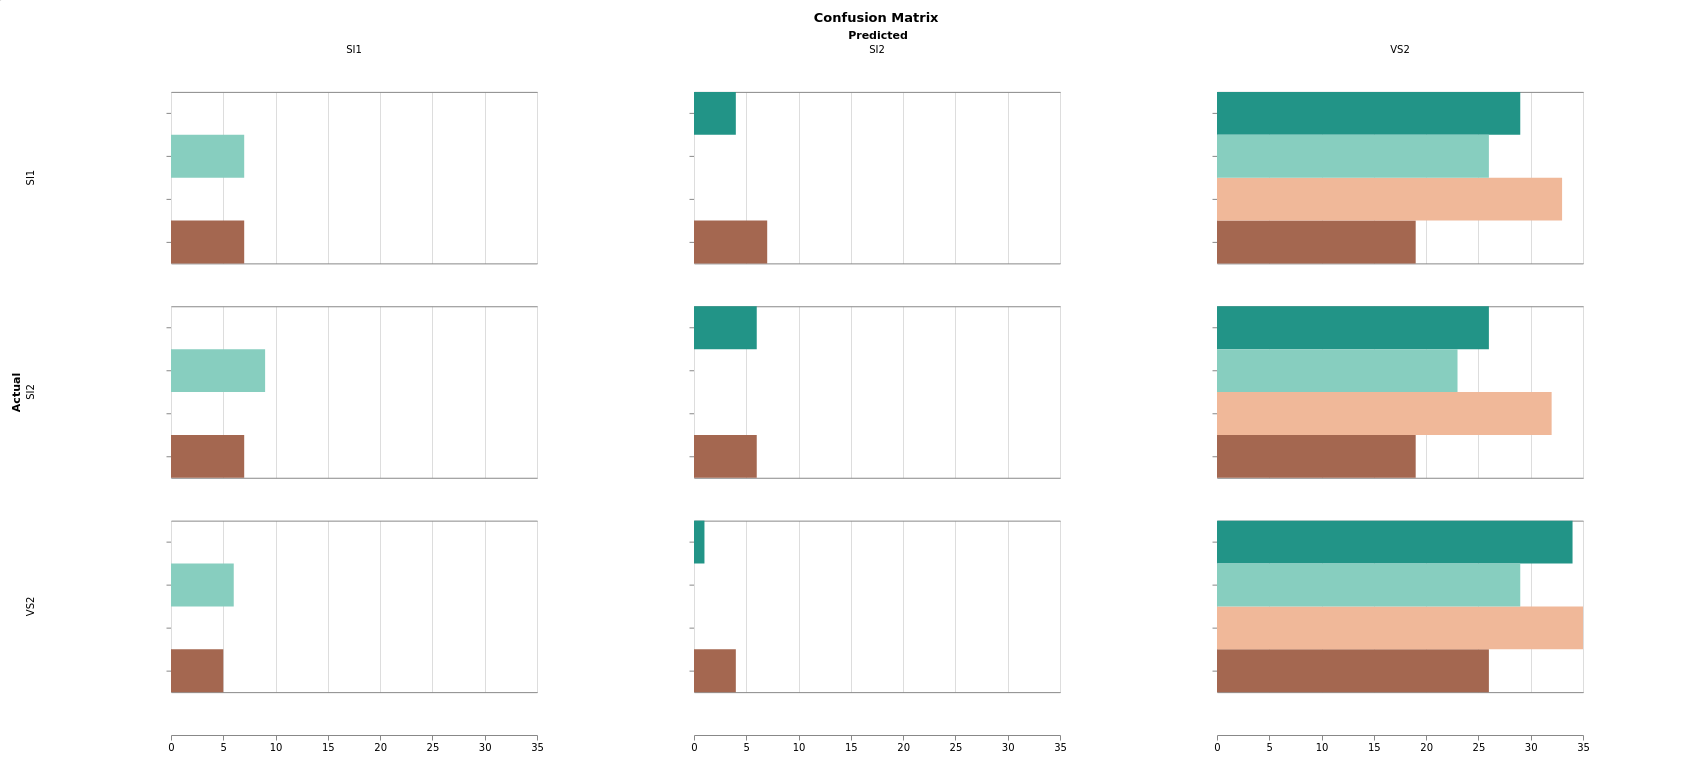
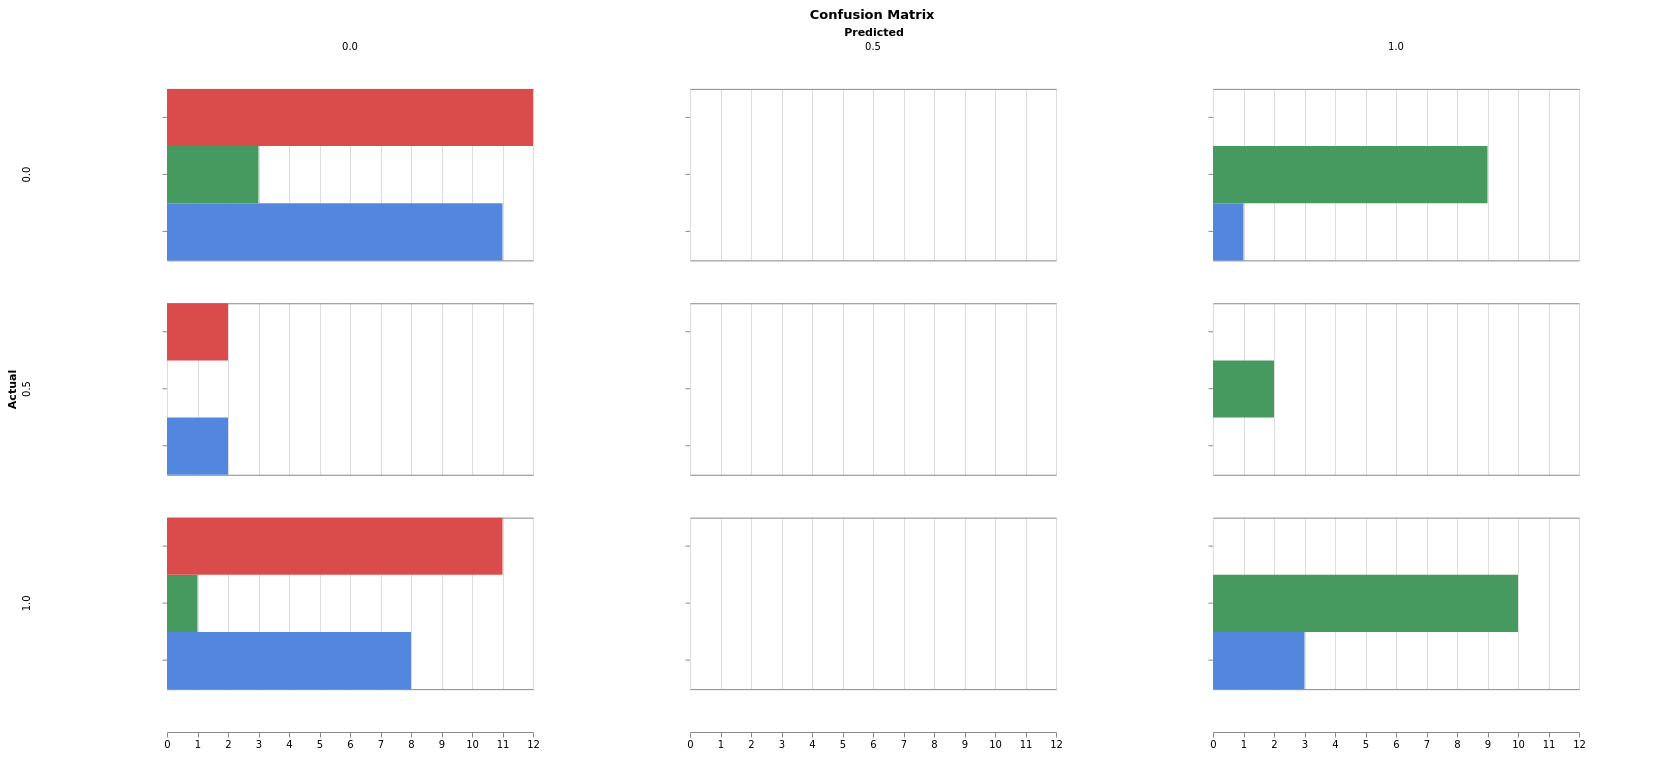
update new results

diff --git a/train.py b/train.py
@@ -284,7 +284,7 @@ class ClassifierModel:
         if self.num_classes <= 2:
             criterion = nn.BCEWithLogitsLoss(weight=torch.from_numpy(cws).float()).to(device)
         else:
-            criterion = nn.CrossEntropyLoss(weight=torch.from_numpy(cws).float()).to(device)
+            criterion = nn.CrossEntropyLoss(weight=torch.from_numpy(cws).float(), label_smoothing=0.1).to(device)
         optimizer = self._get_optimizers(t_parameters)
         scheduler = self._get_scheduler(optimizer, train_loader_length)
         if is_kfold:
@@ -331,7 +331,7 @@ class ClassifierModel:
         if self.num_classes <= 2:
             criterion = nn.BCEWithLogitsLoss(weight=torch.from_numpy(cws).float()).to(device)
         else:
-            criterion = nn.CrossEntropyLoss(weight=torch.from_numpy(cws).float()).to(device)
+            criterion = nn.CrossEntropyLoss(weight=torch.from_numpy(cws).float(), label_smoothing=0.1).to(device)
         optimizer = self._get_optimizers(t_parameters)
         scheduler = self._get_scheduler(optimizer, train_loader_length)
         trainer = Trainer(model=self.net, dataloaders=dataloaders_dict, num_classes=self.num_classes,
@@ -399,7 +399,7 @@ class ClassifierModel:
         if self.num_classes <= 2:
             criterion = nn.BCEWithLogitsLoss(weight=torch.from_numpy(cws).float()).to(device)
         else:
-            criterion = nn.CrossEntropyLoss(weight=torch.from_numpy(cws).float()).to(device)
+            criterion = nn.CrossEntropyLoss(weight=torch.from_numpy(cws).float(), label_smoothing=0.1).to(device)
         test_model(self.save_model_path, val_loader, criterion, self.num_classes, self.classes, device, self.use_wandb,
                    vis_prediction, self.means, self.stds, is_test)
 

diff --git a/models/simplecnn3d.py b/models/simplecnn3d.py
@@ -45,9 +45,51 @@ class Simple3dCNN(nn.Module):
         # # print(x.size())
         return x
 
+class CNNModel(nn.Module):
+    def __init__(self):
+        super(CNNModel, self).__init__()
+        
+        self.conv_layer1 = self._conv_layer_set(3, 32)
+        self.pool = nn.AdaptiveAvgPool3d(4)
+        # self.conv_layer2 = self._conv_layer_set(64, 64)
+        self.fc1 = nn.Linear(2048, 128)
+        self.fc = nn.Linear(128, 100)
+        self.relu = nn.LeakyReLU()
+        # self.batch = nn.BatchNorm1d(128)
+        self.drop = nn.Dropout(p=0.15)        
+        
+    def _conv_layer_set(self, in_c, out_c):
+        conv_layer = nn.Sequential(
+        nn.Conv3d(in_c, out_c, kernel_size=(3, 3, 3), padding=0),
+        nn.LeakyReLU(),
+        nn.MaxPool3d((2, 2, 2)),
+        )
+        return conv_layer
+    
+
+    def forward(self, x):
+        # print(x.size())
+        out = self.conv_layer1(x)
+        # print(out.size())
+        out = self.pool(out)
+        # print(out.size())
+        out = out.view(out.size(0), -1)
+        # print(out.size())
+        out = self.fc1(out)
+        # print(out.size())
+        out = self.relu(out)
+        # print(out.size())
+        # out = self.batch(out)
+        out = self.drop(out)
+        # print(out.size())
+        out = self.fc(out)
+        # print(out.size())
+        return out
+
 
 # if __name__ == '__main__':
 #     d_in = torch.randn(1, 3, 6, 384, 384)
-#     m = Simple3dCNN()
+#     # m = Simple3dCNN()
+#     m = CNNModel()
 #     print(m)
 #     print(m(d_in).shape)

diff --git a/main.py b/main.py
@@ -4,7 +4,7 @@ from train import ClassifierModel
 if __name__ == '__main__':
     ################################
     # Model training and evaluation
-    model_dir = "experiments/cnn3d/simple_cnn3d"
+    model_dir = "experiments/cnn3d/resnet18"
     experiment = "cnn3d"
     model = ClassifierModel(model_dir, experiment)
     train_df = model.prepare_df("dataset/round_all/all/diamonds_db.p")

diff --git a/dataset.py b/dataset.py
@@ -36,7 +36,7 @@ class ImageClassifierDataset(Dataset):
             if self.transform is not None:
                 img = self.transform(image=img)["image"]
             images.append(img)
-        #shuffle(images)
+        # shuffle(images)
         if self.lbls is not None:
             # N,C,D,H,W
             return torch.stack(images, 0).permute(1,0,2,3), self.lbls[idx]

diff --git a/utils.py b/utils.py
@@ -67,7 +67,9 @@ def datasets_to_df(ds_path: str):
     with open(ds_path, mode='rb') as f:
         ds = pickle.load(f)
     ds = ds.reset_index()
-    data = ds[['SKU', 'clarity']]
+    ds = ds[ds['er.Mike'].notna()]
+    ds['er.Mike'] = ds['er.Mike'].astype('string')
+    data = ds[['SKU', 'er.Mike']]
     return pd.DataFrame(data.values, columns=["file", "label"])
 
 

diff --git a/Readme.md b/Readme.md
@@ -1,6 +1,6 @@
 ## Diamond Clarity Classification
 
-There are 3 classes present in the dataset. Alost equal distribution.
+There are 3 classes present in the dataset.
 
 ## Installation
 
@@ -31,20 +31,21 @@ We use a lot of SOTA approaches like OneCycleLR, AdamW, FP16 training, Stratifie
 
 Experiments can be tracked here : https://wandb.ai/dudeperf3ct/cnn3d
 
-Analysis : Poor performance across all models. Performace is slightly better than random chance.
+Analysis : Poor performance across all models. Performace is slightly better than majority class prediction.
 
-| ![](diagrams/legend.png) | ![](diagrams/confusion_matrix.png) |
-| :----------------------: | ---------------------------------- |
+![](diagrams/legend.png)
 
+![](diagrams/confusion_matrix.png)
 
+![](diagrams/val_acc.png)
 
 - We overfit the model with 3 samples, only `custom_simple_cnn3d` overfits the 3 samples of each class. Other 2 model fail to overfit.
 - The depth is very small (6 in our case)
 - CNN 3d focus only on spatial features
 - Since we are training from scratch having more data is always helpful.
-- The above confusion matrix shows that most models are predicting the majority of class to be `VS2`. 
-- Models like`resnet18` have all predictions as one class
-- `custom_simple_cnn3d` did not predict `SI1` class at all and same case with `resnet10` not predicting one class `SI2` at all.
+- The above confusion matrix shows that most models are predicting the majority of class to be `0`. 
+- All models fail to predict `0.5` class
+- `resnet10` did not predict `1.0` class at all.
 
 
     
